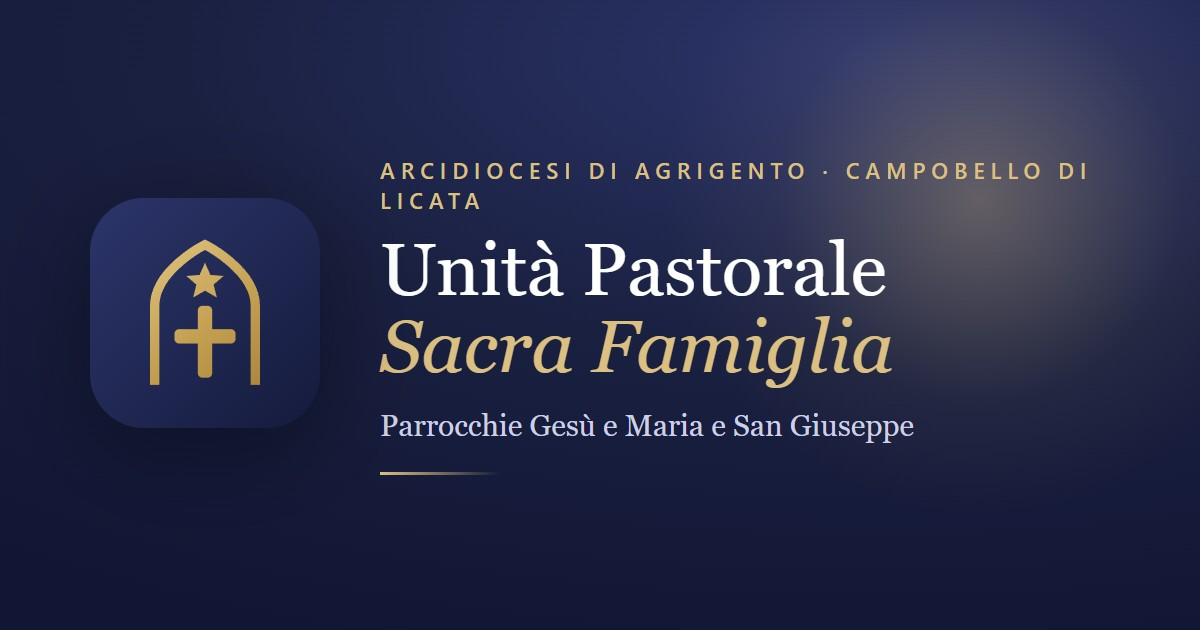
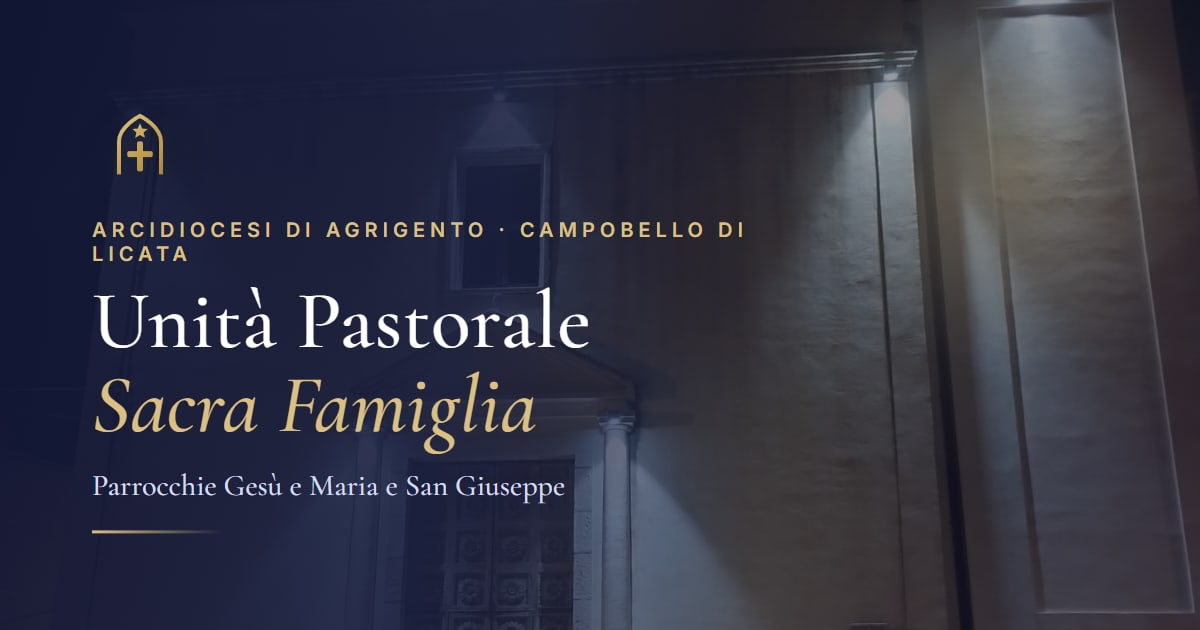
og-image per WhatsApp con foto della chiesa + fix Immacolata non tagliata
- Nuova og-cover.jpg (1200x630, 57KB) con la facciata di Gesù e Maria, stemma e
  titolo: anteprima ottimale per la condivisione su WhatsApp/social
- Card Immacolata: foto verticale della statua ora mostrata intera (object-fit
  contain su sfondo luminoso), non più tagliata su smartphone

diff --git a/index.html b/index.html
@@ -471,7 +471,7 @@
           <h3 data-lang-it>Immacolata Concezione</h3><h3 data-lang-en>Immaculate Conception</h3>
           <p data-lang-it>Presso la chiesa di Gesù e Maria la settimana dell'Immacolata si apre con iniziative di solidarietà, preghiera e celebrazioni liturgiche, per culminare nel grande falò (<em>vamparottu</em>) della sera del 7 dicembre e nella solenne Messa con processione cittadina dell'8, accompagnata dalla tradizionale <em>muffuletta</em>.</p>
           <p data-lang-en>At the church of Gesù e Maria the week of the Immaculate opens with initiatives of solidarity, prayer and liturgical celebrations, culminating in the great bonfire (<em>vamparottu</em>) on the evening of 7 December and in the solemn Mass with town procession on the 8th, accompanied by the traditional <em>muffuletta</em>.</p>
-          <img class="feast-photo" src="assets/img/immacolata.jpg" alt="La statua dell'Immacolata venerata l'8 dicembre nella chiesa di Gesù e Maria" loading="lazy">
+          <img class="feast-photo portrait" src="assets/img/immacolata.jpg" alt="La statua dell'Immacolata venerata l'8 dicembre nella chiesa di Gesù e Maria" loading="lazy">
         </div>
       </div>
     </div>

diff --git a/assets/css/style.css b/assets/css/style.css
@@ -303,6 +303,8 @@ body.nav-open .nav-toggle span{background:#fff}
 .feast p{font-size:.94rem;color:#54545f}
 
 .feast-photo{width:100%;height:190px;object-fit:cover;border-radius:12px;margin-top:1.1rem;border:1px solid var(--line)}
+.feast-photo.portrait{height:clamp(300px,60vw,360px);object-fit:contain;padding:10px;
+  background:radial-gradient(120% 82% at 50% 30%,#ffffff,var(--ivory-2))}
 
 /* ---------- Prose (pagine testo) ---------- */
 .prose p{margin-bottom:1.2rem;color:#43434f}
